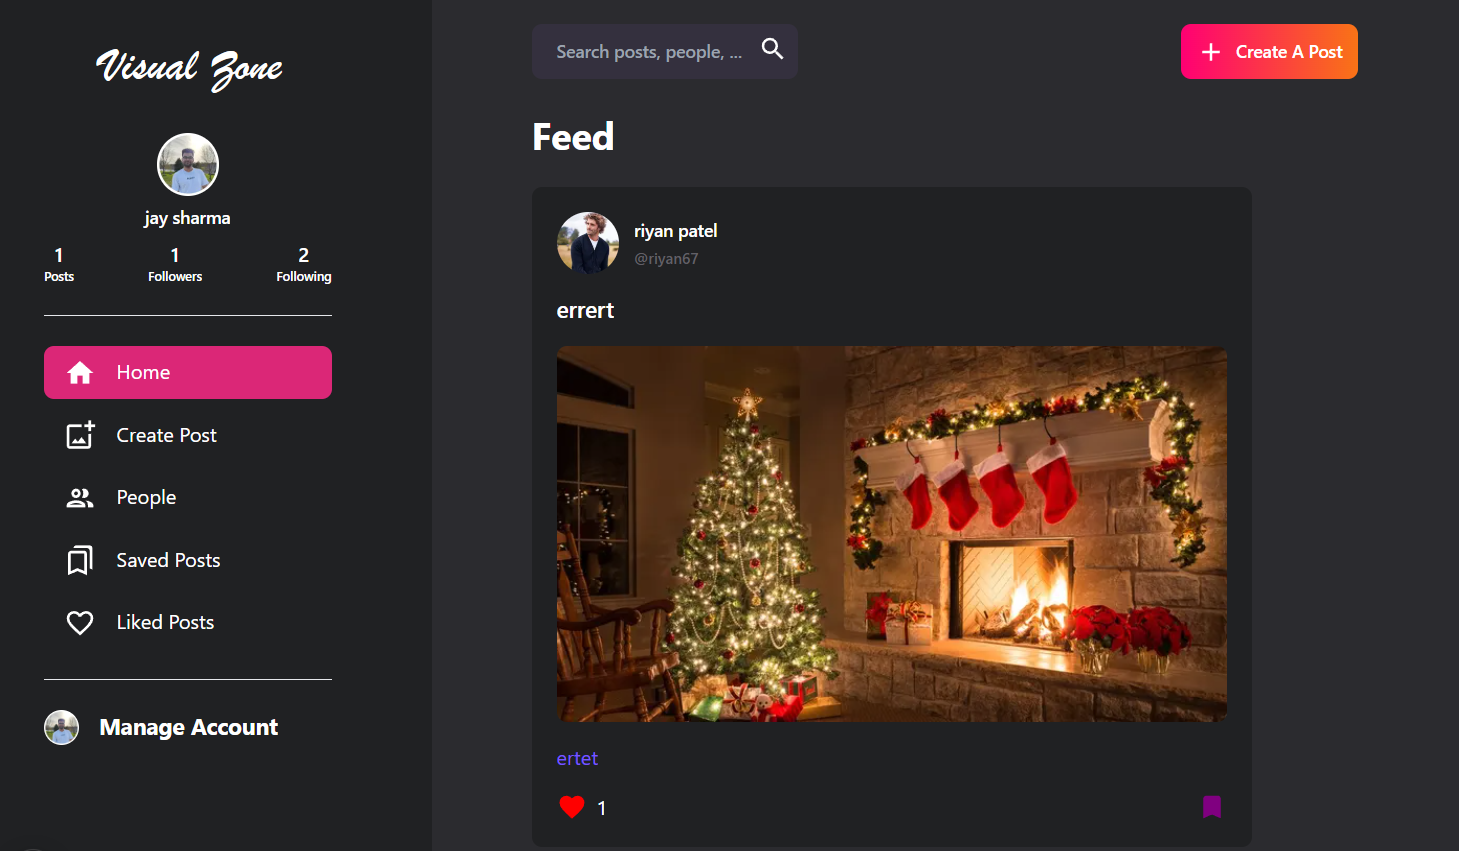
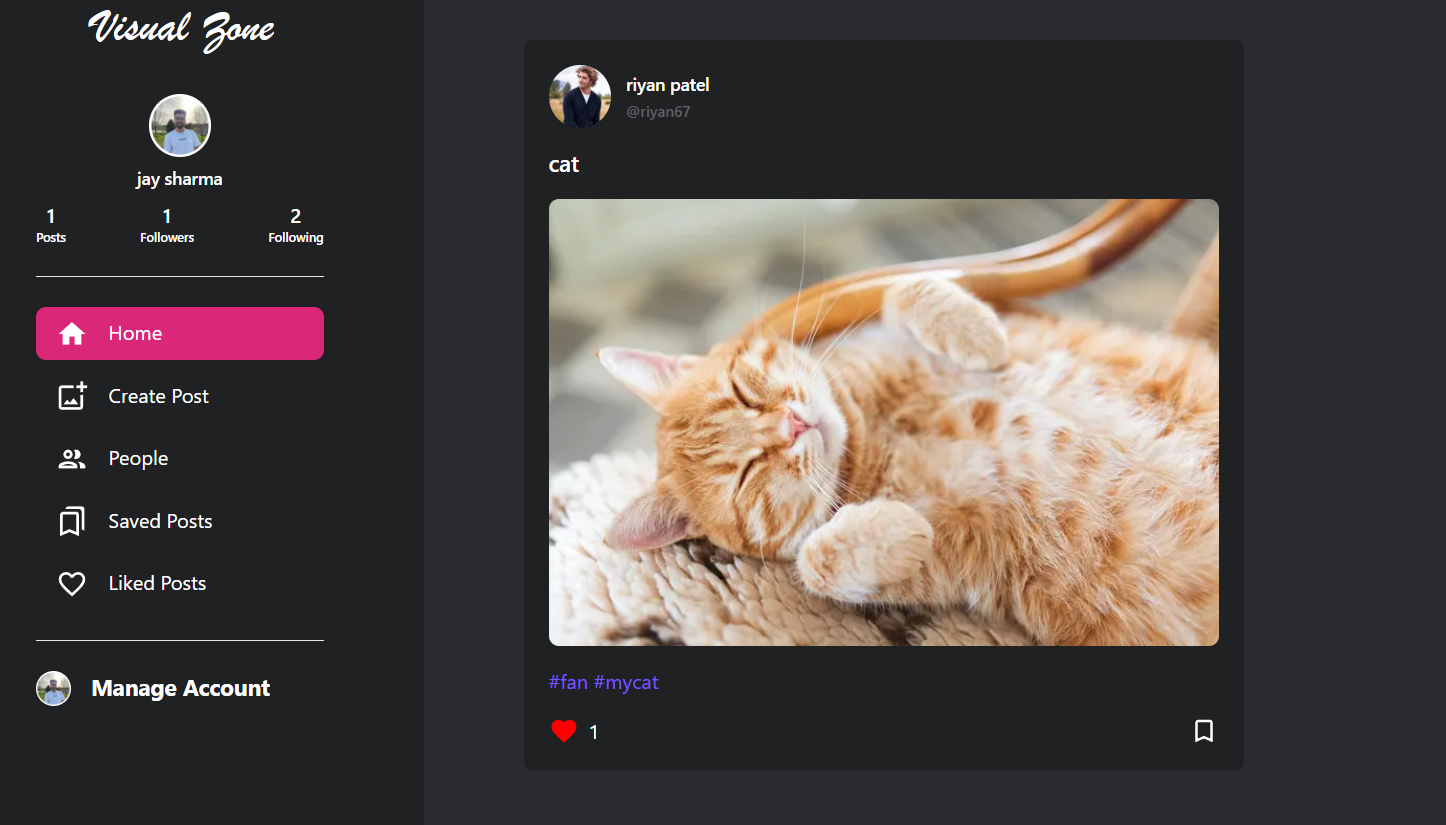
Add wesite preview photos

diff --git a/Readme.md b/Readme.md
@@ -66,5 +66,34 @@
 - **Tailwind CSS**: utility-first framework for clean, responsive UI
 
 - **Additional Libraries**: Several other libraries and tools are used for enhanced functionality, security, and better user experience (such as form handling, UI components, and state management).
- 
+
+
+# Website Preview
+
+<br>
+
+<p align="center">
+        <img src="public/website-demo/web1.png" width="750" alt="Website Demo">
+</p>
+
+<p align="center">
+        <img src="public/website-demo/web2.png" width="750" alt="Website Demo">
+</p>
+
+<p align="center">
+        <img src="public/website-demo/web3.png" width="750" alt="Website Demo">
+</p>
+
+<p align="center">
+        <img src="public/website-demo/web4.png" width="750" alt="Website Demo">
+</p>
+
+<p align="center">
+        <img src="public/website-demo/web5.png" width="750" alt="Website Demo">
+</p>
+
+<p align="center">
+        <img src="public/website-demo/web6.png" width="750" alt="Website Demo">
+</p>
+
 
